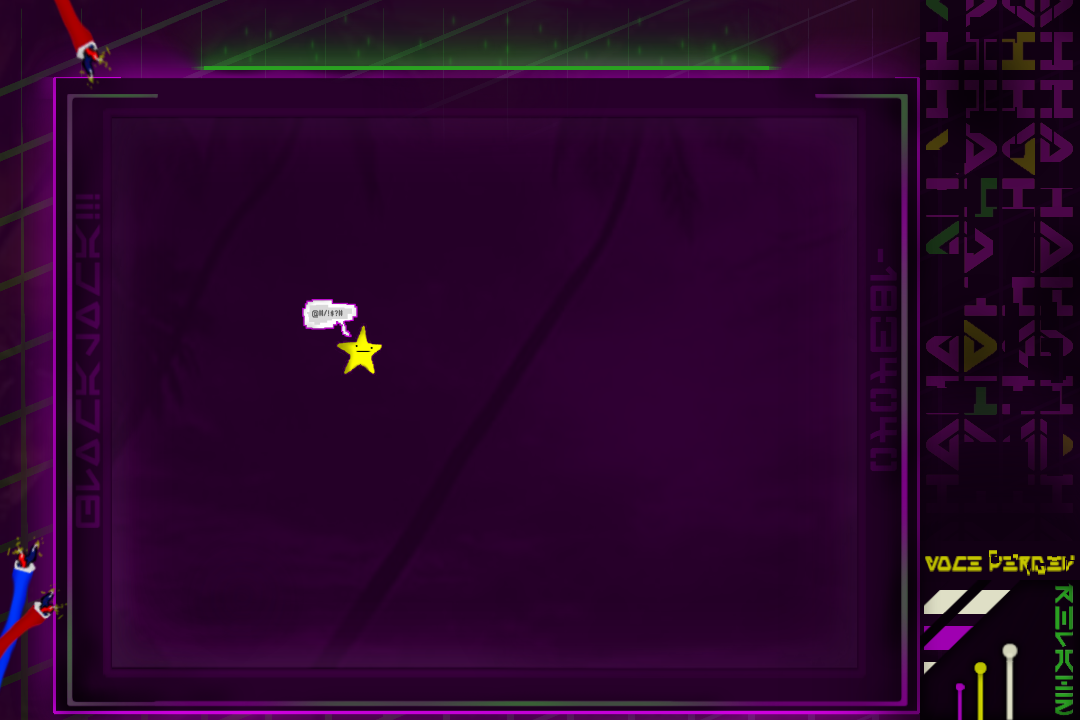
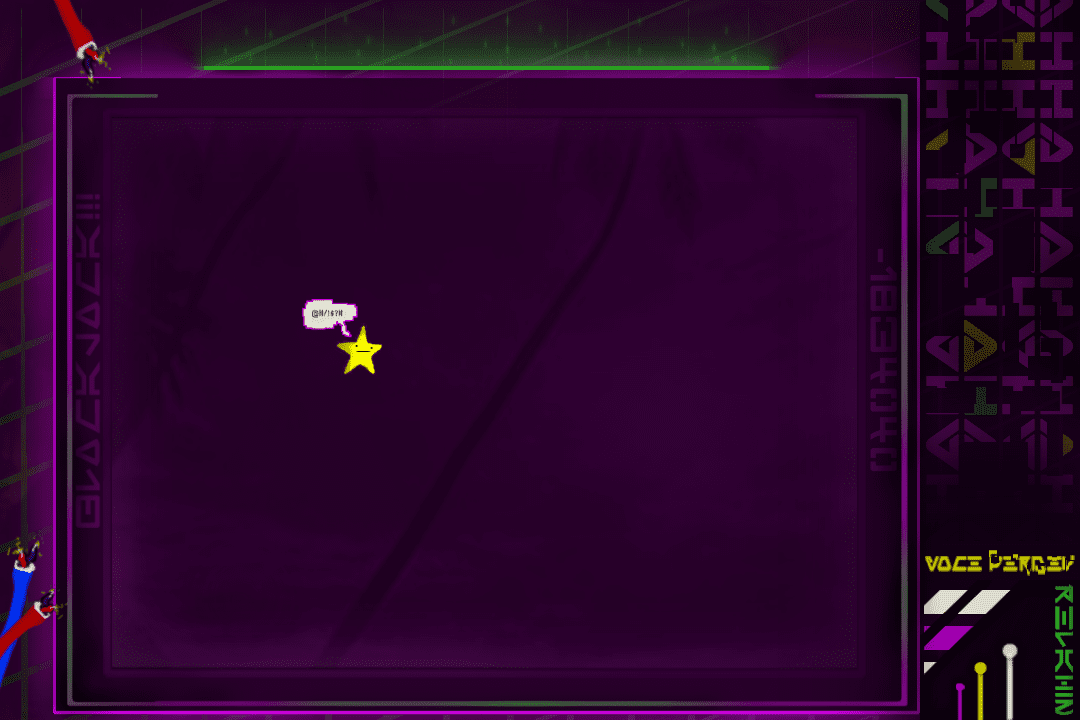
feat: finsh blackjack kello kitty theme

diff --git a/src/renderers/blackjack.go b/src/renderers/blackjack.go
@@ -50,7 +50,7 @@ func GetFontColorByTableTheme(theme string) string {
 	case "atemporal":
 		return "#a760e6"
 	case "hello_kitty":
-		return "#e894f5"
+		return "#7529a8"
 	default:
 		return "#FFF"
 	}
@@ -59,7 +59,6 @@ func GetFontColorByTableTheme(theme string) string {
 func RenderBlackjack(data *BlackjackData) image.Image {
 	ctx := gg.NewContext(1080, 720)
 
-	data.TableTheme = "hello_kitty"// TODO: Remove
 	tableImage := utils.GetAsset("tables/" + data.TableTheme + ".png")
 
 	ctx.DrawImage(tableImage, 0, 0)
